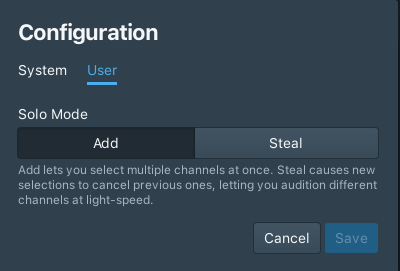
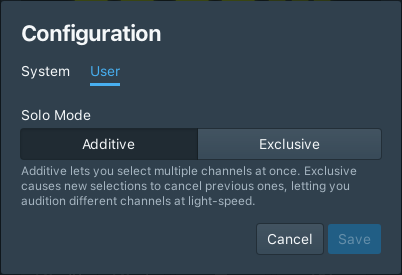
Pre-release updates to include channel/range configuration
This commit:

* adds documentation for the channel/range configuration options in the
configuration pane.
* clarifies function of sample rate configuration.
* clarifies support options.
* adds links to support site.

diff --git a/docusaurus.config.js b/docusaurus.config.js
@@ -67,6 +67,10 @@ module.exports = {
           label: 'Rewind',
         },
         {
+          label: 'Downloads & FAQs',
+          href: 'https://www.fourieraudio.com/rewind-support',
+        },
+        {
           label: 'Website',
           href: 'https://www.fourieraudio.com',
         },

diff --git a/docs/rewind/configuration-pane.md b/docs/rewind/configuration-pane.md
@@ -3,6 +3,9 @@ sidebar_position: 7
 ---
 
 # Configuration Pane
+The configuration pane can be opened with the ![cog](/img/rewind/ui-cog.png) cog button from the
+Rewind main interface.
+
 The configuration pane allows you to configure two types of setting:
 
 * **System Settings**: These are local to your computer, and relate to the particular audio
@@ -18,8 +21,21 @@ Use the tabs to navigate between the two types of setting.
 ![System Settings Tab](/img/rewind/ui-config.png)
 
 The system settings tab allows you to configure parameters relating to the audio engine.
-You can select a sample rate (leave unselected to fall back on the *Core Audio* default, usually
-44.1 kHz) and an IO device to use to send and receive audio.
+
+You can select:
+
+* the IO device to be used to send and receive audio
+* a sample rate to which the IO device will be set when Rewind starts. Selecting (system default)
+  will select 44.1 kHz for *Core Audio* devices.
+* The number of input channels that you want Rewind to process.  The number of channels enabled by
+  your licence is shown; to increase the number of available channels, you can
+  [contact support](mailto:support@fourieraudio.com) to purchase an upgrade.
+* The amount of Time Travel you want Rewind to make available.
+* Which channels on the IO device you want the output to be mapped to.
+
+Rewind will not let you configure it such that there is less than 4 GiB of RAM available for your
+system to perform background operations. The amount of RAM consumed by Rewind in the currently
+selected configuration is shown by the RAM Consumption slider.
 
 Changing these settings will restart *Rewind*.
 
@@ -29,6 +45,6 @@ Changing these settings will restart *Rewind*.
 
 There is one available user setting:
 
-* **Solo Mode**: If you select **Add**, then you can select multiple channels at once. If you
-  select **Steal**, you can't; selecting a new channel will deselect the previously selected
+* **Solo Mode**: If you select **Additive**, then you can select multiple channels at once. If you
+  select **Exclusive**, you can't; selecting a new channel will deselect the previously selected
   channel.

diff --git a/docs/rewind/getting-started.md b/docs/rewind/getting-started.md
@@ -23,7 +23,8 @@ place.
 - **RAM**: *Rewind* can chew through a *lot* of RAM (all of that audio has to be stored somewhere!).
   Make sure you have enough RAM for the number of channels, sample rate, and amount of time travel
   you desire: 16 GiB is recommended as a _minimum_, and large systems or systems running at high
-  sample rates should have 32 GiB.
+  sample rates should have 32 GiB. The amount of RAM that Rewind will use can be
+  [configured](configuration-pane) to taste.
 
 - **An almost fanatical devotion to Rewind**: For reliable show-critical audio playback with
   demanding configurations (over 2/3 of system RAM used by *Rewind*), quit any other applications
@@ -33,8 +34,9 @@ place.
 
 ## Method
 
-1. [Download](#) (or acquire via other means, nefarious or otherwise) the latest installer package.
-   We ship new versions of Rewind frequently, so be sure to always download the latest version.
+1. [Download](https://fourieraudio.com/rewind-support/) (or acquire via other means, nefarious or
+   otherwise) the latest installer package.  We ship new versions of Rewind frequently, so be sure
+   to always download the latest version.
 
 2. Run the installer. It'll afford you some pleasantries, check that you agree with our entirely
    reasonable terms, and, assuming you do, make a brand shining new entry in your Applications

diff --git a/docs/intro.md b/docs/intro.md
@@ -19,6 +19,12 @@ reached via e-mail:
 
 * Support e-mail: support@fourieraudio.com
 
+We're pretty responsive via e-mail, and contacting us this way helps us get your support request to
+the most relevant person as quickly as possible.
+
+If you have a Rewind Production licence, your sales contact will have given you a phone number you
+can use for real-time support, should you need it.
+
 ## Approaching 88mph...
 Are you mind-bendingly irritated at the tools you use on a daily basis? Do you spend your life
 re-configuring a bewildering array of systems that seem to secretly hate you? Is it no longer a

diff --git a/docs/rewind/overview.md b/docs/rewind/overview.md
@@ -5,7 +5,7 @@ sidebar_position: 3
 # Overview
 ![Main Screenshot](/img/rewind/overview-screenshot.png)
 
-So, what have we here? The interface is split into two keys parts:
+So, what have we here? The interface is split into two key parts:
 1. At the **top**, the [Time Control Region](time-control-region),
 1. and at the **bottom**, the [Channel Selection Region](channel-selection-region).
 

diff --git a/docs/rewind/channel-edit-pane.md b/docs/rewind/channel-edit-pane.md
@@ -3,6 +3,9 @@ sidebar_position: 6
 ---
 
 # Channel Edit Pane
+The channel edit pane can be opened with the ![pencil](/img/rewind/ui-edit-pencil.png) edit button from the
+Rewind main interface.
+
 ![Channel Edit Pane](/img/rewind/edit-pane.png)
 
 The channel edit pane can be used to configure the channels in your show.
